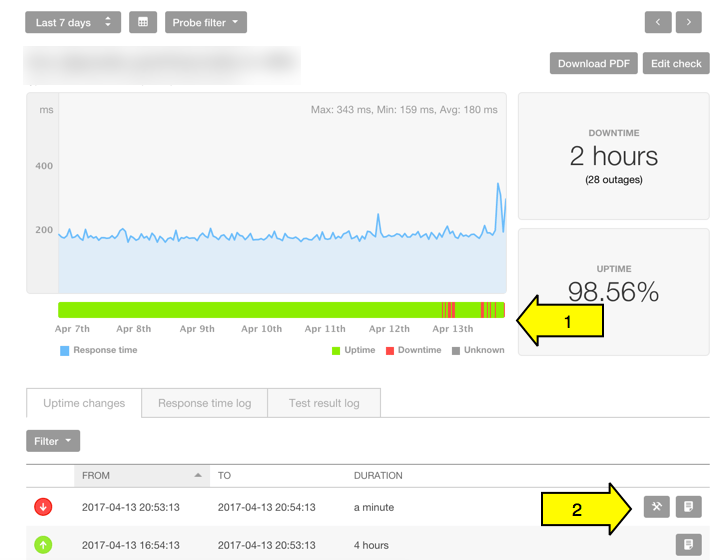
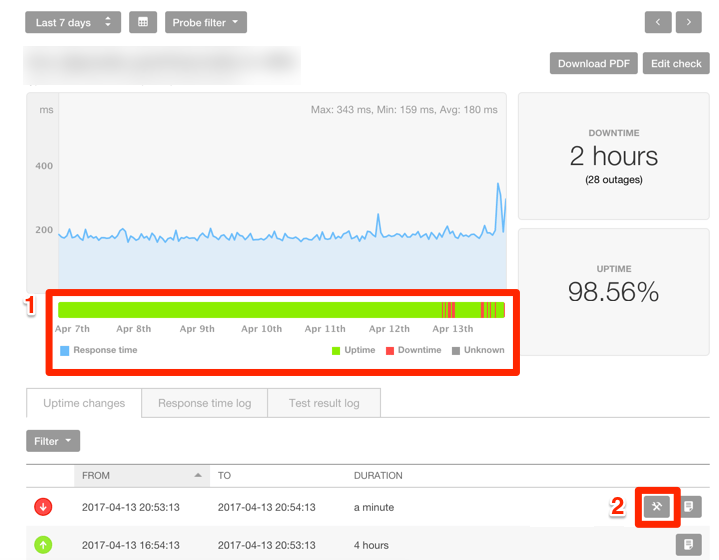
Copy edits, new screenshots using default call outs

Changed region(s): [[0.0306, 0.5161, 0.8567, 0.6982], [0.7344, 0.85, 0.9485, 0.9714]]

diff --git a/source/_docs/guides/pingdom-uptime-check.md b/source/_docs/guides/pingdom-uptime-check.md
@@ -8,30 +8,25 @@ date: 5/14/2017
 
 ---
 
-## Pingdom Uptime Monitoring
+Monitoring services, such as [Pingdom](https://www.pingdom.com/), allow those responsible for site performance and uptime to know when a website is having problems delivering content. Pingdom provides several different types of uptime and performance checks.
 
-Monitoring services such as Pingdom allow those responsible for site performance and uptime to know when a website is having problems delivering content. Pingdom provides several different types of uptime and performance checks.
-
-In this guide, we will create and configure the simplest check for a website, an [Uptime Check](https://www.pingdom.com/product/uptime-monitoring), which pings a page and verifies a response. Other checks are available include a [Page Speed](https://www.pingdom.com/product/page-speed) check, which tracks page load time, and [Real User Monitoring](https://www.pingdom.com/product/performance-monitoring), which measures other important performance metrics.
+In this guide, we will create and configure the simplest check for a website, an [Uptime Check](https://www.pingdom.com/product/uptime-monitoring), which pings a page and verifies a response. Additional checks include a [Page Speed](https://www.pingdom.com/product/page-speed) check, which tracks page load time, and [Real User Monitoring](https://www.pingdom.com/product/performance-monitoring), which measures other important performance metrics.
 
 ## What You’ll Need
 
-- At least a paid starter account on Pingdom. It's OK if you don't have one yet, this guide goes over the signup process.
+- At least a paid Starter plan on Pingdom. It's OK if you don't have one yet, this guide goes over the signup process. For a free alternative to Pingdom, checkout [New Relic](/docs/new-relic#configure-ping-monitors-for-availability).
+
 - A Drupal or Wordpress site on Pantheon to monitor.
 
-## Create your Pingdom account
+## Create a Pingdom Account
 
 1.  On [Pingdom's homepage](https://www.pingdom.com), click **Sign Up** or if available, **Start your Free 14-Day Trial**.
 
-    ![Pingdom.com home page](/source/docs/assets/images/integrations/pingdom_hp.png)
+2.  Review and choose from available plans and select either monthly or discounted annual billing. For this guide, we selected the **Pingdom Starter account**. Plans can be upgraded at anytime.
 
-2.  Review and choose from available plans and select either monthly or discounted annual billing. For this guide, we selected the **Pingdom Started Account**. Plans can be upgraded at anytime.
+    Add your credit card information. If you chose the free trial, you have until the end of the trial time to try Pingdom before the card is billed. Once you've read and agreed to Pingdom's [services agreement](https://www.pingdom.com/legal/software-service-agreement), click **START FREE TRIAL** to continue.
 
-    ![Pingdom.com choose plan](/source/docs/assets/images/integrations/choose_plan.png)
-
-    Add your credit card information. If you chose the free trial, you have until the end of the trial time to try Pingdom before the card is billed. Once you've read and agreed to Pingdom's [services agreement](https://www.pingdom.com/legal/software-service-agreement), click on **START FREE TRIAL** to continue.
-
-    Now we will log in and set up monitoring. You can use the **SET UP YOUR MONITORING** button to go directly to the Pingdom dashboard.
+    Now we will log in and set up monitoring. Click the **SET UP YOUR MONITORING** button to go directly to the Pingdom dashboard.
 
 ## Create a Basic Uptime Check
 
@@ -43,7 +38,7 @@ In this guide, we will create and configure the simplest check for a website, an
 
 3.  In the modal that opens, add the following information where indicated:
 
-    - **Name of Check:** An easily recognizable name for the check, e.g. “mysite.com Home Page.”
+    - **Name of Check:** An easily recognizable name for the check, e.g. "www.example.com Home Page.”
 
     - **Check Interval:** How often Pingdom will check the site. While one minute is the minimum and acceptable to use, often a check every 5 minutes or more is adequate, and will allow for brief network throughput issues. Remember, these checks also will appear in web access logs, so too many checks may make it harder to debug other issues.
 
@@ -52,9 +47,13 @@ In this guide, we will create and configure the simplest check for a website, an
     - **URL/IP:** On the **Required** tab, enter the URL for the website. If your site is using HTTPS, select that dropdown option. From the **Optional** tab, you can add user credentials and expected response text. This is very useful if you are using Varnish to cache a site; you can create a simple PHP script which queries the database and returns a specific value to determine if the site is functioning as expected.
 
     - **Test From:** Select the region. We suggest you select the region where the majority of the site's users are located.
-    - **Alerting Settings:** You can create teams, or assign alerts directly to users. It's better to create teams within Pingdom, rather than a forwarding email address (e.g. monitoring@mysite.com), as each user can set up their own alerting preferences. For now, select yourself.
+
+    - **Alerting Settings:** You can create teams, or assign alerts directly to users. It's better to create teams within Pingdom, rather than a forwarding email address (e.g. monitoring@example.com), as each user can set up their own alerting preferences. For now, select yourself.
+
     - **When down, alert after:** 1-5 minutes, depending on the risk of false positives. If you are aware your site is having performance issues, it isn’t helpful to be reminded constantly, so sometimes a longer time period before being alerted ensures you are only notified of a severe failure.
+
     - **Resend alert every:** This controls how often alerts are repeated. Never, 1 or 2 down cycles is adequate for most developers. It’s assumed that you will be working on the issue, and won't need to be alerted to an issue you're currently handling. It becomes noise during a potentially stressful time.
+
     - **Alert when back up.** Leave this checked. You may not be the one responding to the issue, but you probably want to know when it’s back up. Sometimes intermittent issues result in a site going up and down within a few minute period.
 
 3.  Click **Create check** when you are done. You will now see a new check in the dashboard, from the **Uptime** page:
@@ -71,6 +70,7 @@ Let’s look at a site that is having some trouble to see how Pingdom can help.
 ![Downtime modal](/source/docs/assets/images/integrations/downtime_modal.png)
 
 - Item 1 tells us when the issue started occurring, which we can attempt to correlate to any recent changes or external events.
+
 - Item 2 provides the site's response to the check and Pingdom’s attempt to determine the root cause of the downtime. In this case, we see that the site returned a 200, which is a successful response, but took so long that Pingdom considered it a timeout:
 
     ![Root cause analysis](/source/docs/assets/images/integrations/root_cause.png)
